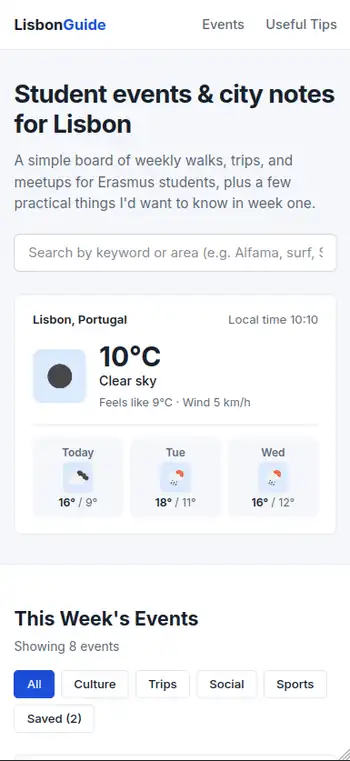
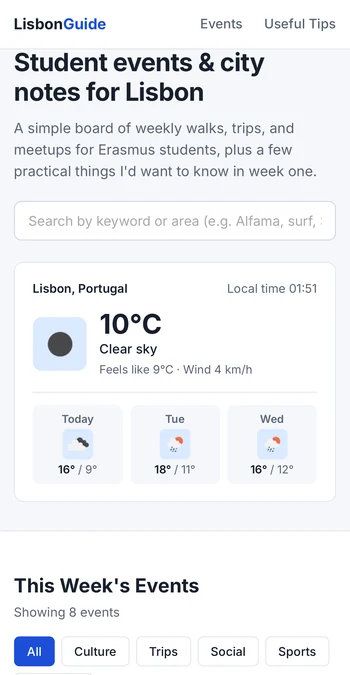
docs: align previews using real mobile screenshot

diff --git a/README.md b/README.md
@@ -5,9 +5,7 @@ A mobile-first guide for Erasmus students arriving in Lisbon, with a searchable 
 **Live Demo:** [Open LisbonGuide](https://ralenaki.github.io/erasmus-lisbon-guide/)
 
 <p align="center">
-  <img src="assets/desktop_preview.webp" alt="LisbonGuide desktop view with the events board and live weather" width="70%" align="top" />
-  &nbsp;
-  <img src="assets/mobile_preview.webp" alt="LisbonGuide mobile view with the weather card and event filters" width="23%" align="top" />
+  <img src="assets/readme_preview.webp" alt="LisbonGuide desktop and mobile screenshots, aligned at the top and bottom" width="100%" />
 </p>
 
 ## Features
@@ -34,7 +32,8 @@ Clone the repository and open `index.html` in your browser. No build step or API
 ```text
 ├── assets/
 │   ├── desktop_preview.webp
-│   └── mobile_preview.webp
+│   ├── mobile_preview.webp
+│   └── readme_preview.webp
 ├── index.html
 ├── script.js
 ├── style.css
